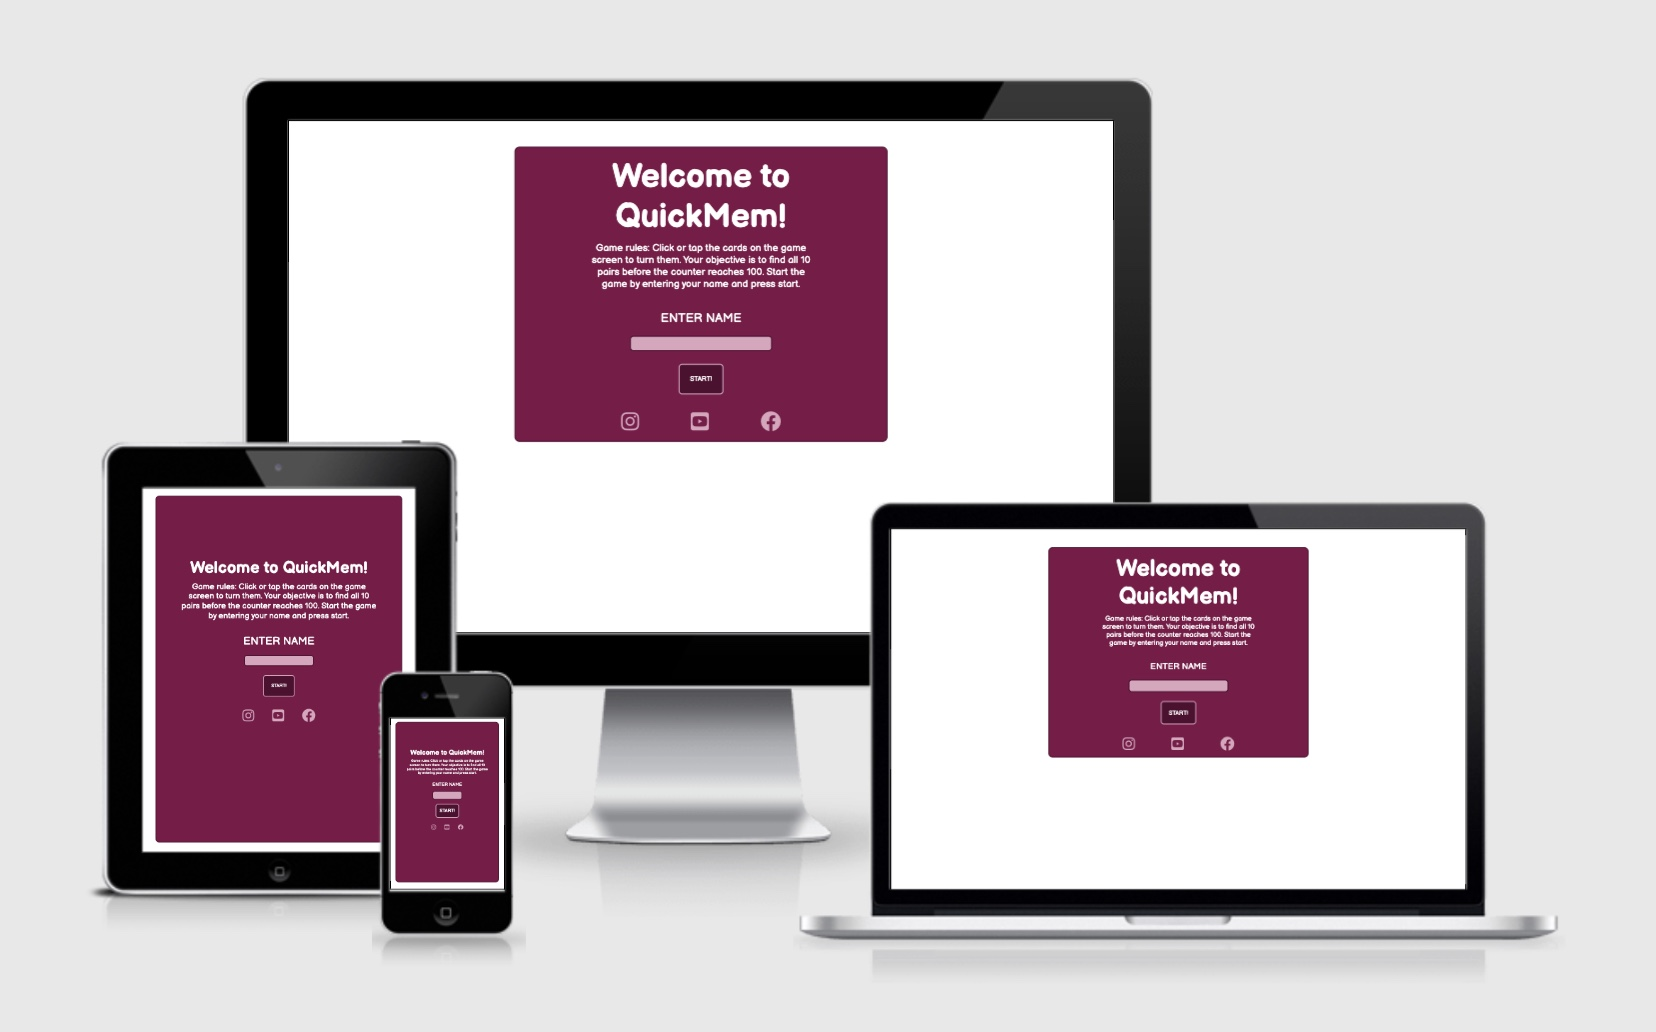
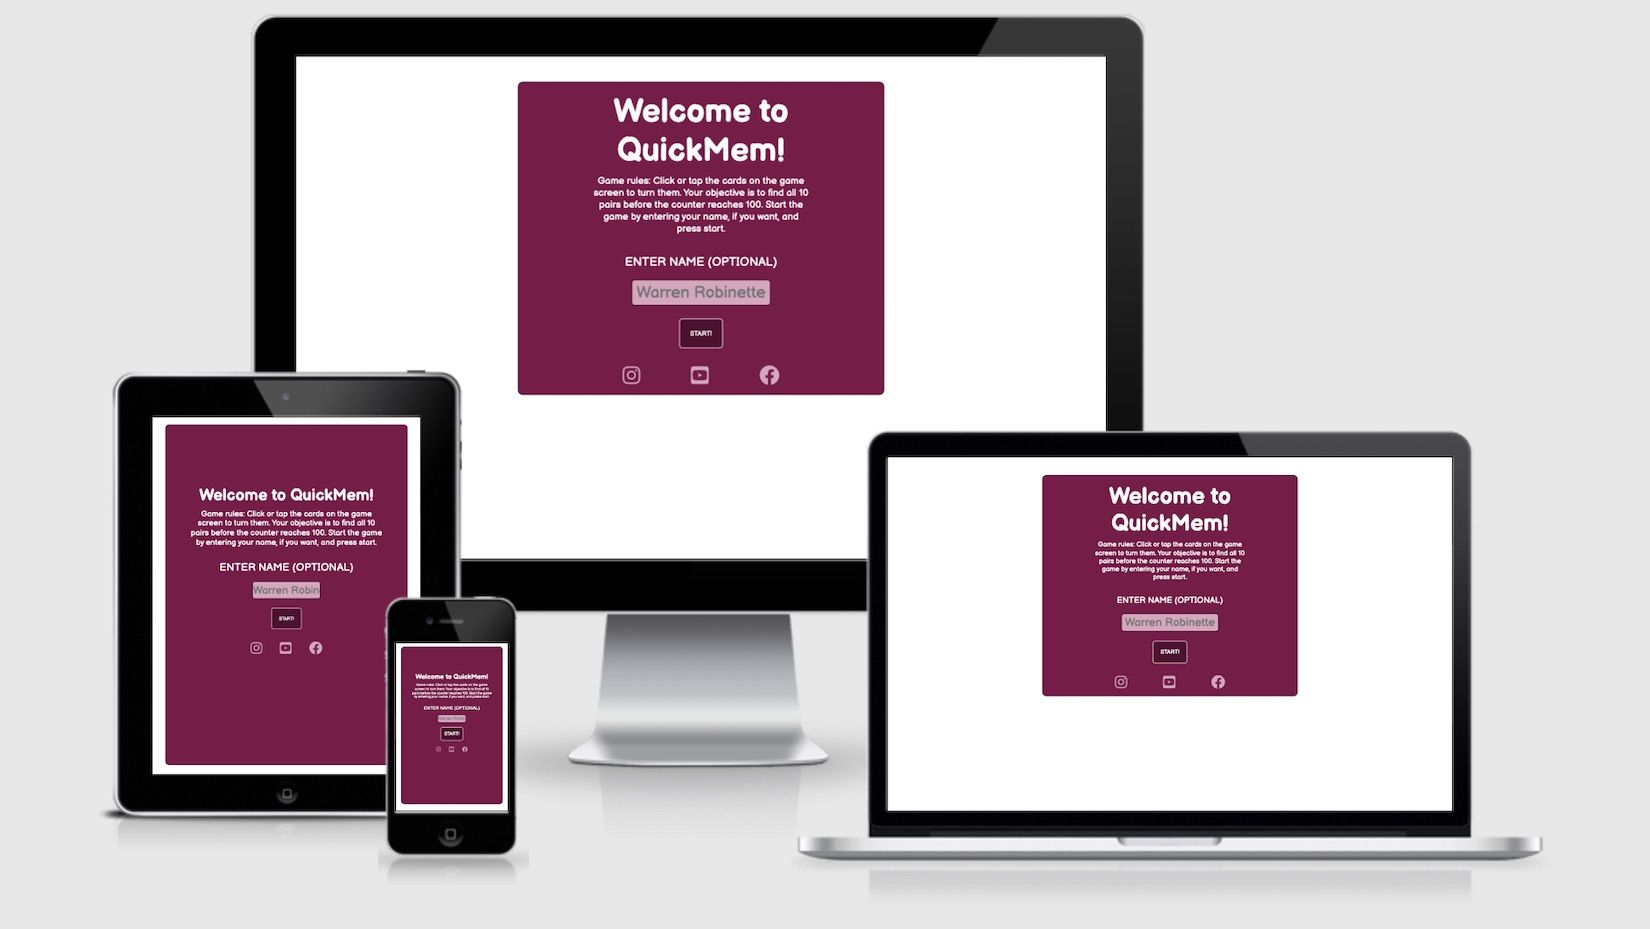
Add changes to ReadMe - Changed the screenshot on top for an updated one.

Changed region(s): [[0.0618, 0.0, 0.9582, 0.9677]]

diff --git a/README.md b/README.md
@@ -290,4 +290,6 @@ I have consulted numerous websites, individuals and slack channels to get suppor
 
  And to all the rest of my fellow student that have tested the actual game and provided me with feedback on playability.
 
+ [Am I Responsive](http://ami.responsivedesign.is/) was used to create the image on top of this ReadMe
+
 [Back to top](#quickmem)
